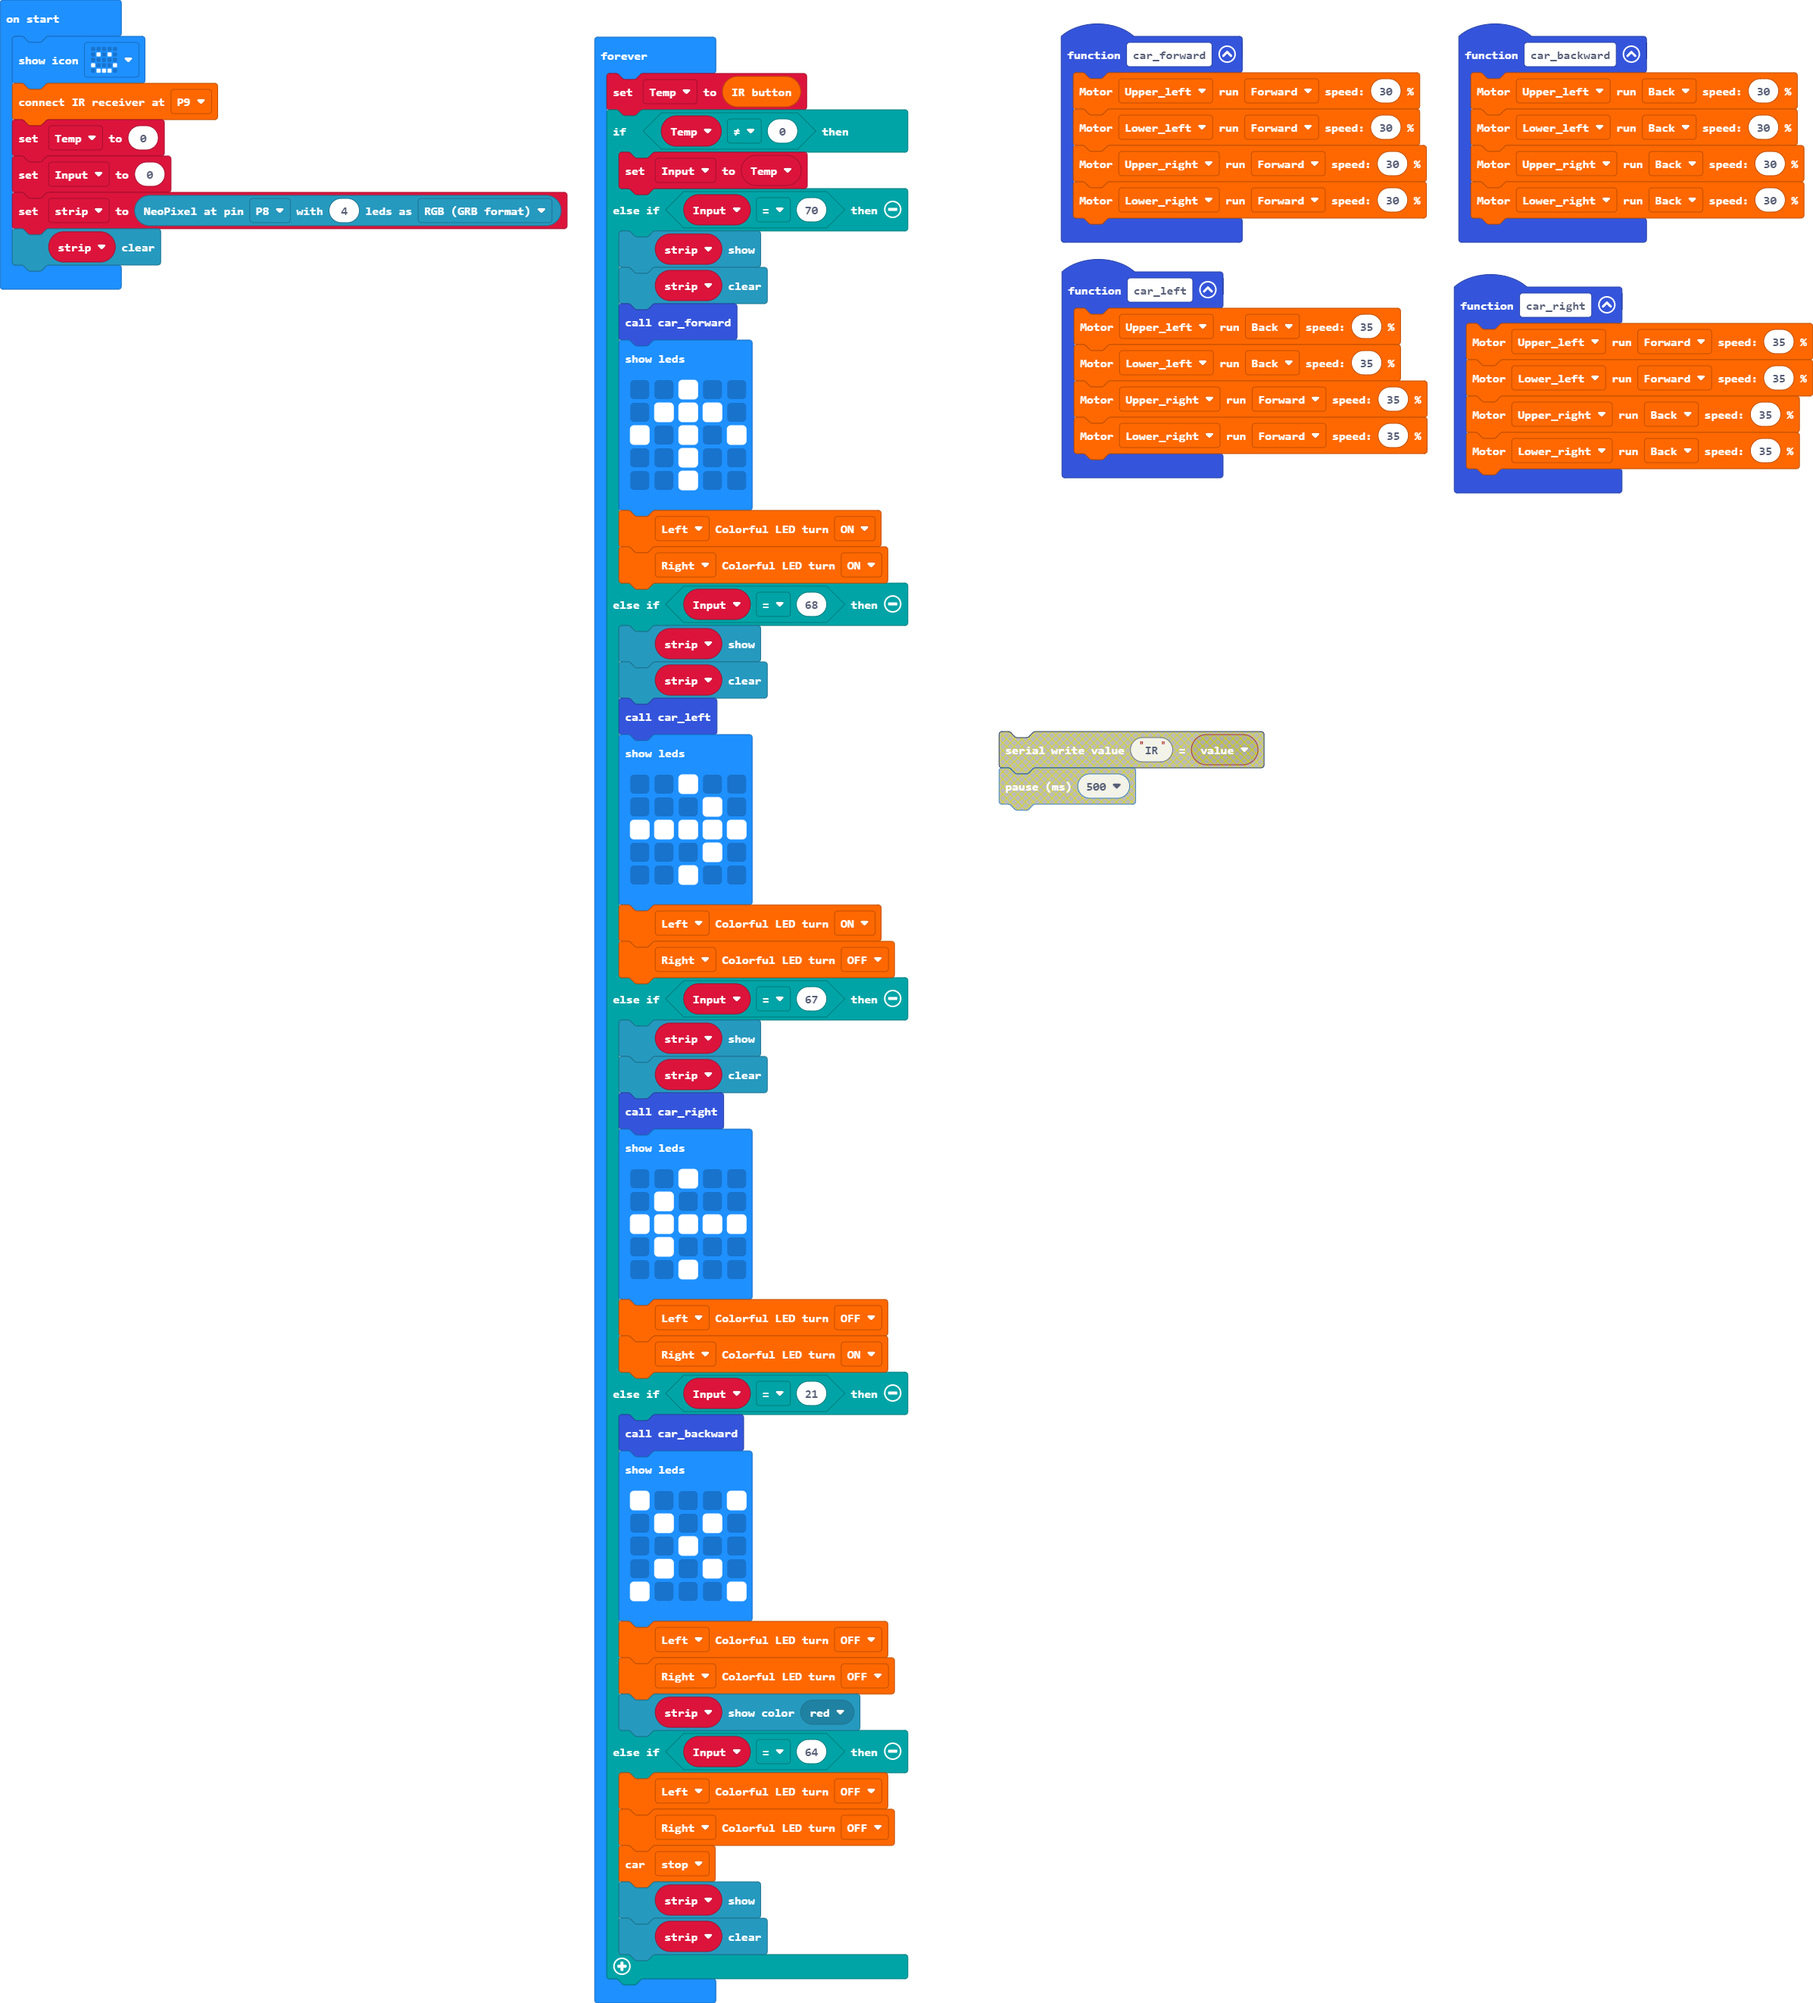
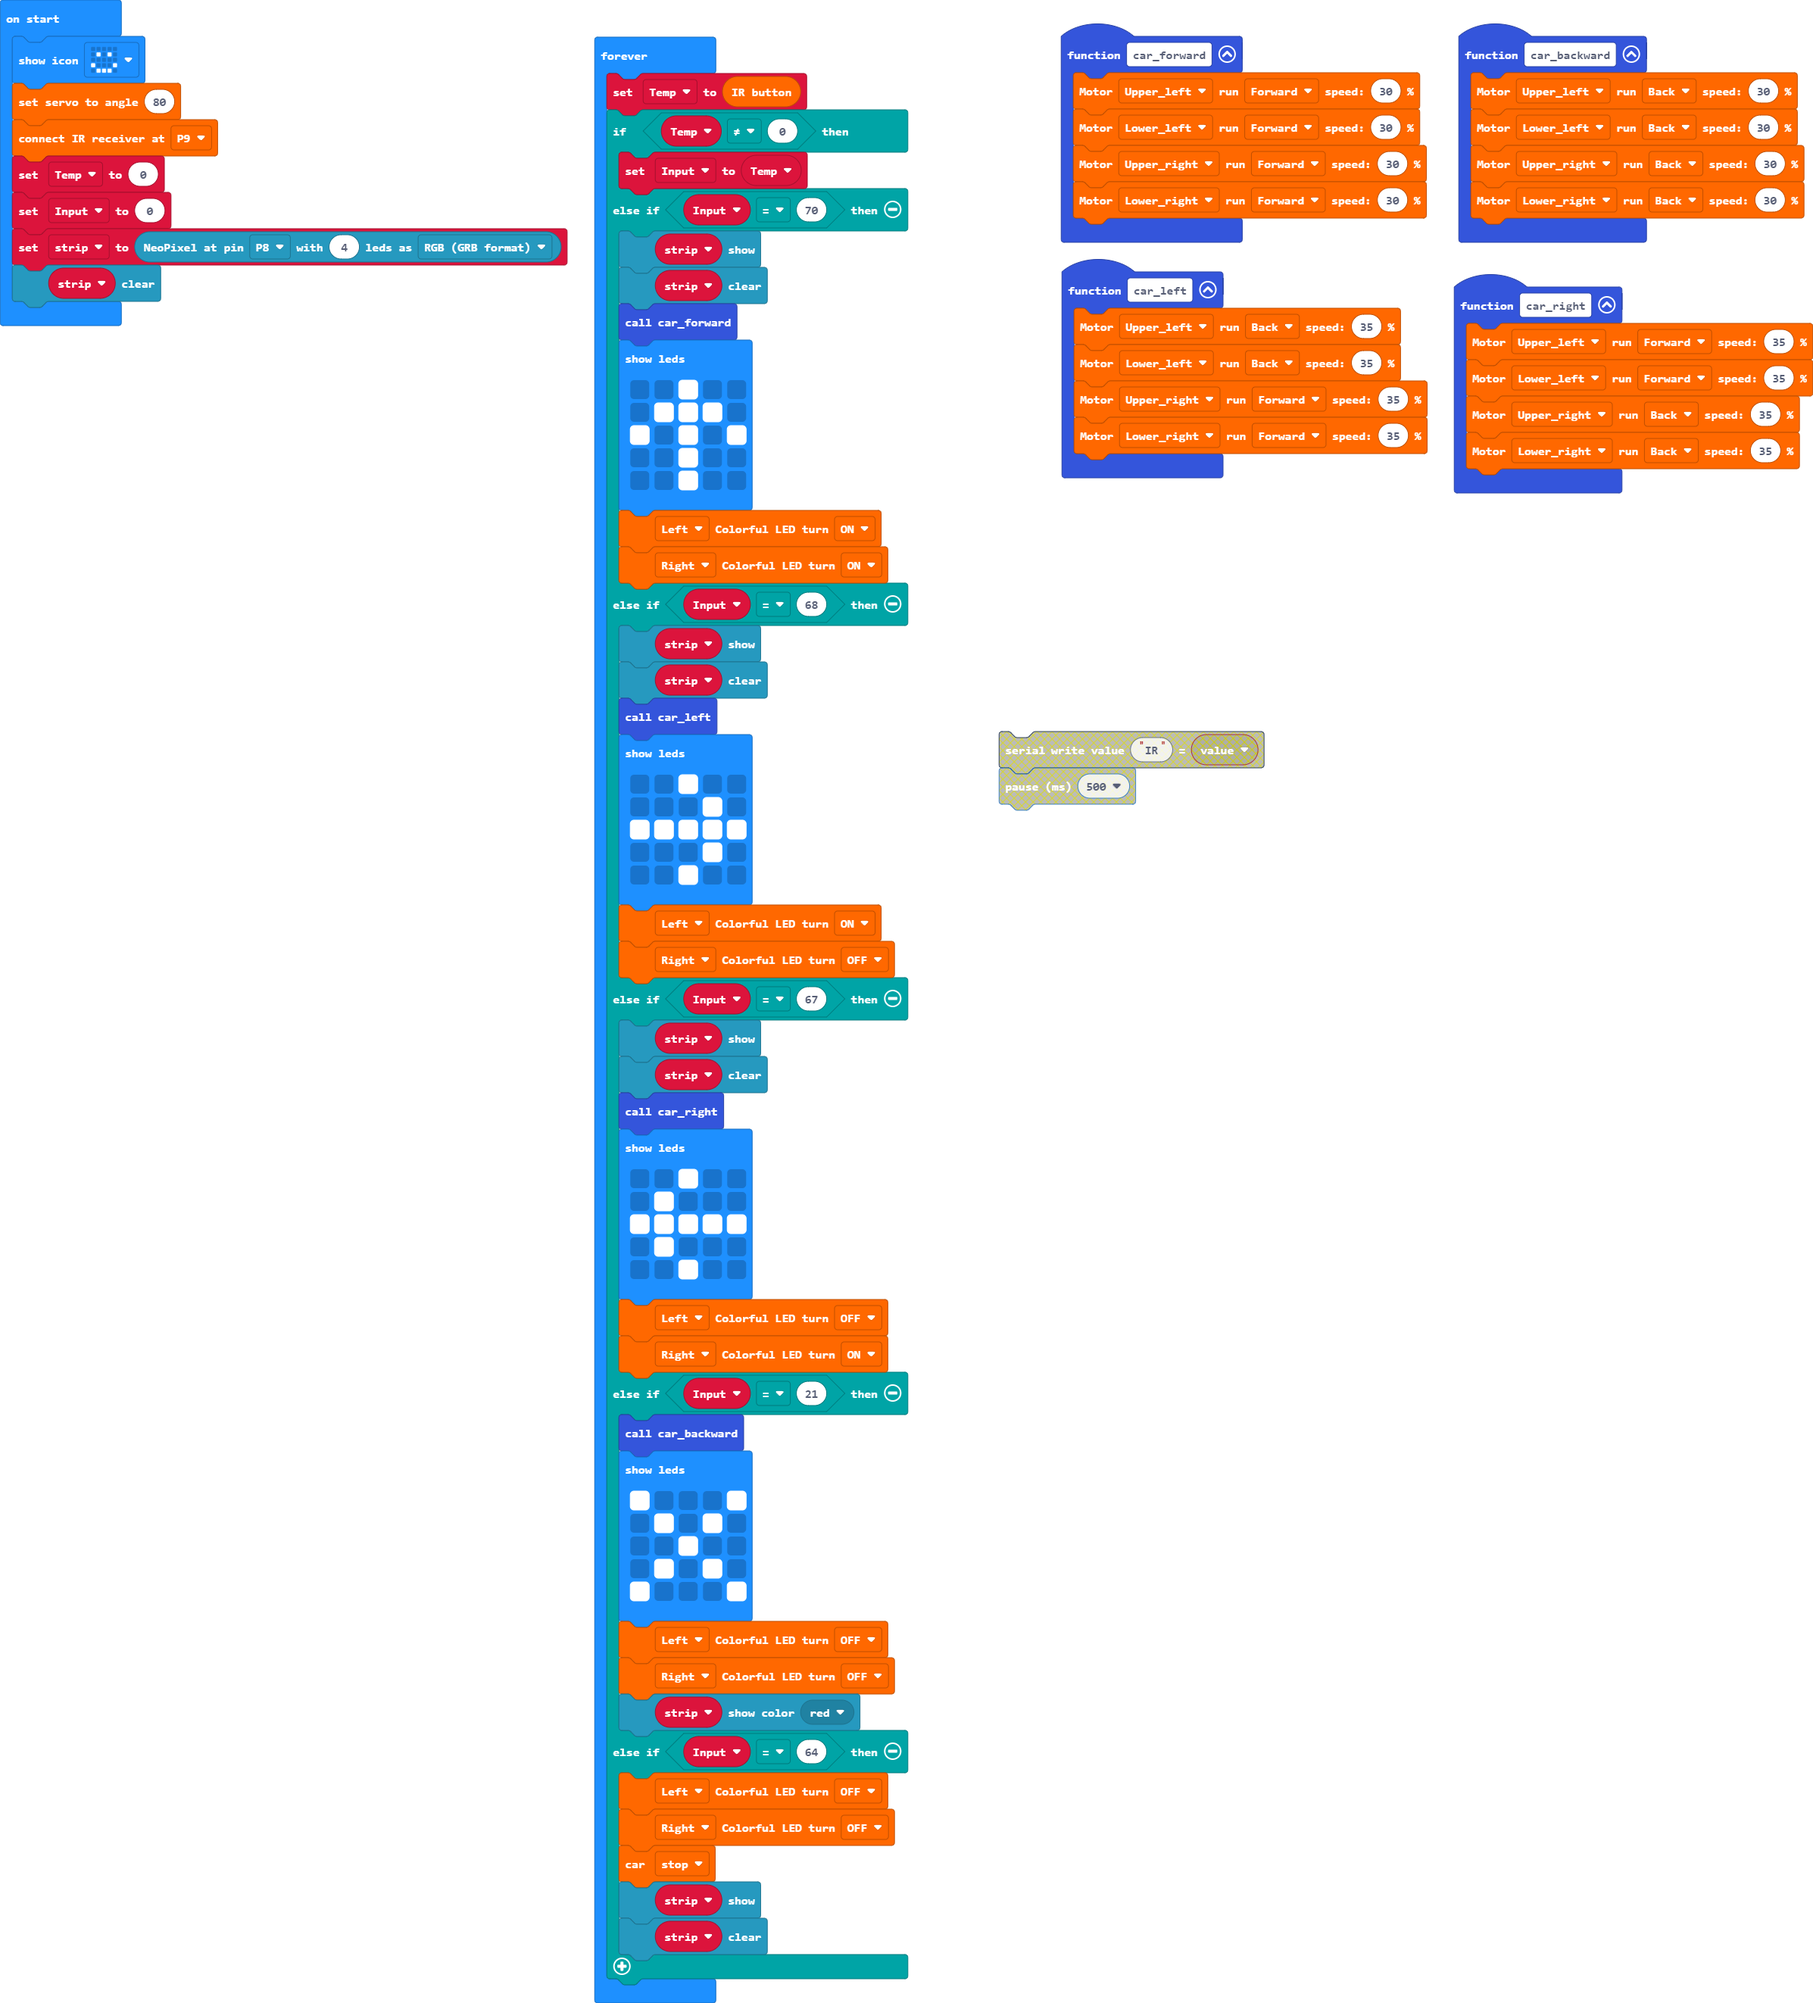
Update main.blocks, main.ts

Changed region(s): [[0.0, 0.031, 0.34, 0.186]]

diff --git a/main.ts b/main.ts
@@ -23,6 +23,7 @@ function car_right () {
     mecanumRobot.Motor(LR.Lower_right, MD.Back, 35)
 }
 basic.showIcon(IconNames.Happy)
+mecanumRobot.setServo(80)
 irRemote.connectInfrared(DigitalPin.P9)
 let Temp = 0
 let Input = 0
